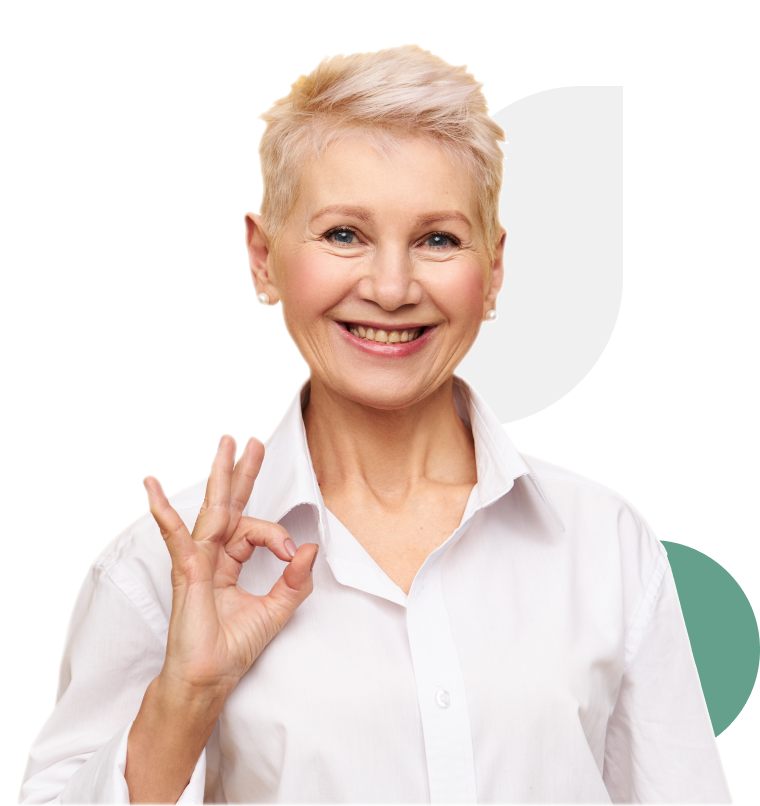
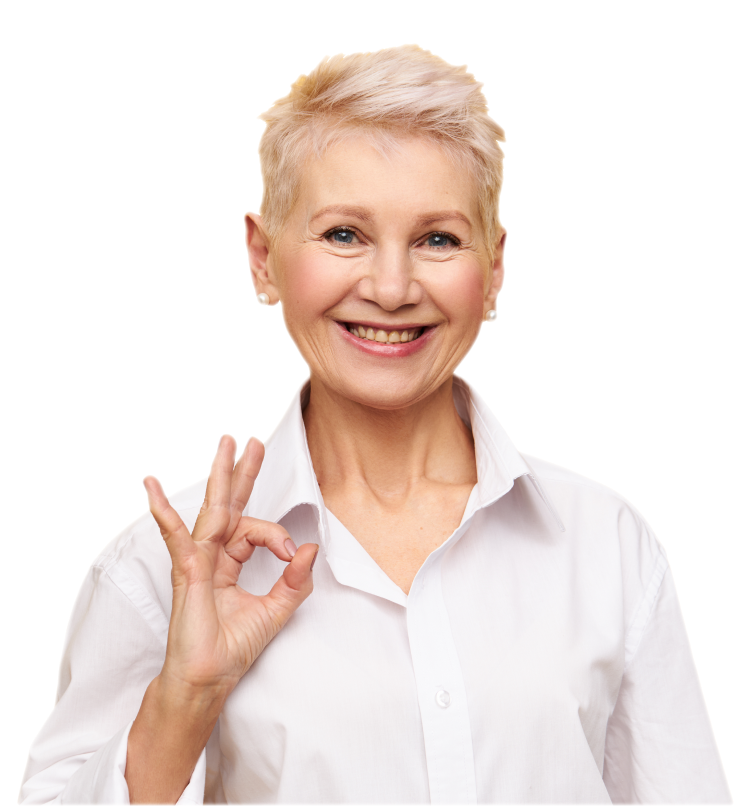
Header and Hero Section responsive done

diff --git a/assets/css/responsive.css b/assets/css/responsive.css
@@ -9,13 +9,17 @@
 	}
 
 	header .menu > ul > li > a {
-	    padding: 60px 10px;
+	    padding: 60px 15px 60px 10px;
 	}
 
 	header .button-box .btn {
 	    margin-right: 10px;
 	    padding: 11px 10px;
 	    font-size: 14px;
+	}
+
+	#hero-section {
+		padding: 0;
 	}
 }
 
@@ -25,6 +29,10 @@
 
 /* Medium Layout: 1280px. */
 @media only screen and (min-width: 992px) and (max-width: 1199px) { 
+	h1 {
+		font-size: 50px;
+	}
+
 	header {
 		background: #EEF5F4;
 		padding: 20px 0;
@@ -104,6 +112,60 @@
 		left: 0;
 		width: 100%;
 		background: #EEF5F4;
+		text-align: center;
+		height: 100vh;
+	}
+
+	header .slicknav_nav a {
+		font-size: 35px;
+		font-weight: 500;
+		line-height: 55px;
+		color: #252C29;
+	}
+
+	header .slicknav_nav li ul li a {
+		font-size: 25px;
+		line-height: 35px;
+	}
+
+	#hero-section .hero-section-inner {
+	    padding: 100px 0 0;
+		text-align: center;
+	}
+
+	#hero-section:before {
+	    display: none;
+	}
+
+	#hero-section h1 {
+		max-width: 595px;
+		width: 100%;
+		line-height: 60px;
+		margin: 0 auto 30px;
+	}
+
+	#hero-section .left-area p {
+		max-width: 736px;
+		width: 100%;
+		margin: 0 auto 80px;
+	}
+
+	#hero-section .right-area .effect-image {
+		display: none;
+	}
+
+	#hero-section .right-area .testimonial-style-1 {
+		left: 50px;
+		bottom: -120px;
+		max-width: 533px;
+	}
+
+	#offer-section {
+	    padding: 85px 0 95px;
+	}
+
+	#offer-section .offer-item {
+	    padding: 0 10px;
 	}
 }
 
@@ -113,12 +175,103 @@
 
 /* Tablet Layout: 768px. */
 @media only screen and (min-width: 768px) and (max-width: 991px) { 
-	header .menu {
+	header {
+		background: #EEF5F4;
+		padding: 0;
+	}
+
+	header .logo {
+		max-width: 120px;
+	}
+
+    header .menu {
 	    display: none;
 	}
 
 	header .mobile-menu {
 	    display: block;
+	}
+
+	header .button-box .btn {
+		padding: 5px;
+		border-radius: 50%;
+		min-width: 40px;
+		height: 40px;
+		display: inline-block;
+		line-height: 26px;
+		margin-right: 5px;
+		background: #ED99B5;
+	}
+
+	header .button-box .btn .text {
+		display: none;
+	}
+
+	header .button-primary .icon-left {
+	    margin-right: 0;
+	}
+
+	header .button-secondary .icon-left {
+	    margin-right: 0;
+	}
+
+	header .button-box .btn:last-child {
+	    margin-right: 10px;
+	}
+
+	header .slicknav_menu {
+	    padding: 0;
+	    background: transparent;
+	}
+
+	header .slicknav_btn {
+	    margin: 0;
+	    text-shadow: none;
+	    -webkit-border-radius: 50%;
+	    -moz-border-radius: 50%;
+	    border-radius: 50%;
+	    background-color: #65A08C;
+	    width: 40px;
+		height: 40px;
+		text-align: center;
+		position: relative;
+	}
+
+	header .slicknav_menu .slicknav_icon-bar {
+	    width: 20px;
+	    height: 2px;
+	    box-shadow: none;
+	}
+
+	header .slicknav_menu .slicknav_no-text {
+	    position: absolute;
+	    top: 50%;
+	    left: 50%;
+	    transform: translate(-50%, -50%);
+	    width: 20px;
+	    height: 12px;
+	}
+
+	header .slicknav_nav {
+	    position: absolute;
+		top: 100%;
+		left: 0;
+		width: 100%;
+		background: #EEF5F4;
+		text-align: center;
+		height: 100vh;
+	}
+
+	header .slicknav_nav a {
+		font-size: 35px;
+		font-weight: 500;
+		line-height: 55px;
+		color: #252C29;
+	}
+
+	header .slicknav_nav li ul li a {
+		font-size: 25px;
+		line-height: 35px;
 	}
 }
 
@@ -128,7 +281,105 @@
 
 /* Mobile Layout: 320px. */
 @media only screen and (max-width: 767px) { 
+	header {
+		background: #EEF5F4;
+		padding: 0;
+	}
 
+	header .logo {
+		max-width: 120px;
+		margin-right: 10px;
+	}
+
+    header .menu {
+	    display: none;
+	}
+
+	header .mobile-menu {
+	    display: block;
+	}
+
+	header .button-box .btn {
+		padding: 5px;
+		border-radius: 50%;
+		min-width: 40px;
+		height: 40px;
+		display: inline-block;
+		line-height: 26px;
+		margin-right: 5px;
+		background: #ED99B5;
+	}
+
+	header .button-box .btn .text {
+		display: none;
+	}
+
+	header .button-primary .icon-left {
+	    margin-right: 0;
+	}
+
+	header .button-secondary .icon-left {
+	    margin-right: 0;
+	}
+
+	header .button-box .btn:last-child {
+	    margin-right: 10px;
+	}
+
+	header .slicknav_menu {
+	    padding: 0;
+	    background: transparent;
+	}
+
+	header .slicknav_btn {
+	    margin: 0;
+	    text-shadow: none;
+	    -webkit-border-radius: 50%;
+	    -moz-border-radius: 50%;
+	    border-radius: 50%;
+	    background-color: #65A08C;
+	    width: 40px;
+		height: 40px;
+		text-align: center;
+		position: relative;
+	}
+
+	header .slicknav_menu .slicknav_icon-bar {
+	    width: 20px;
+	    height: 2px;
+	    box-shadow: none;
+	}
+
+	header .slicknav_menu .slicknav_no-text {
+	    position: absolute;
+	    top: 50%;
+	    left: 50%;
+	    transform: translate(-50%, -50%);
+	    width: 20px;
+	    height: 12px;
+	}
+
+	header .slicknav_nav {
+	    position: absolute;
+		top: 100%;
+		left: 0;
+		width: 100%;
+		background: #EEF5F4;
+		text-align: center;
+		height: 100vh;
+	}
+
+	header .slicknav_nav a {
+		font-size: 35px;
+		font-weight: 500;
+		line-height: 55px;
+		color: #252C29;
+	}
+
+	header .slicknav_nav li ul li a {
+		font-size: 25px;
+		line-height: 35px;
+	}
 }
 
 

diff --git a/index.html b/index.html
@@ -86,7 +86,7 @@
             <div class="hero-section-inner">
                 <div class="container">
                     <div class="row">
-                        <div class="col-md-6">
+                        <div class="col-xl-6">
                             <div class="left-area">
                                 <h1>A holistic approach to a <strong>healthy smile</strong> and better care.</h1>
 
@@ -94,14 +94,15 @@
 
                                 <div class="buttons-box">
                                     <a href="#" class="btn button-primary">MAKE APPOINTMENT</a>
-                                    <a href="#" class="btn button-secondary">OUR CLINIC</a>
+                                    <a href="#" class="btn">OUR CLINIC</a>
                                 </div>
                             </div>
                         </div>
 
-                        <div class="col-md-6">
+                        <div class="col-xl-6">
                             <div class="right-area">
-                                <img src="assets/img/hero/hero.png" alt="">
+                                <img src="assets/img/hero/effect.png" class="effect-image" alt="">
+                                <img src="assets/img/hero/hero.png" alt="" class="featured-image">
 
                                 <div class="testimonial-style-1">
                                     <img src="assets/img/icons/quote.png" class="quote-icon" alt="">

diff --git a/assets/css/style.css b/assets/css/style.css
@@ -365,10 +365,20 @@ header .mobile-menu {
 }
 
 #hero-section .left-area {
-    padding: 100px 0 0 50px;
+    padding: 100px 0 25px 50px;
 }
 
 #hero-section .right-area {
+    position: relative;
+}
+
+#hero-section .right-area .effect-image {
+    position: absolute;
+    right: 0;
+    bottom: 45px;
+}
+
+#hero-section .right-area .featured-image {
     position: relative;
 }
 
